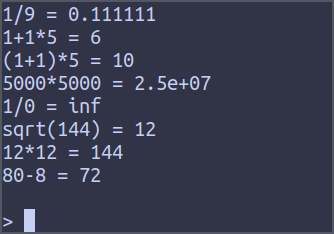
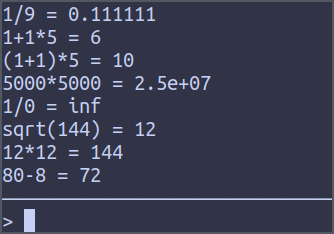
added seperator

Changed region(s): [[0.0, 0.8376, 1.0, 0.8675]]

diff --git a/src/main.c b/src/main.c
@@ -12,6 +12,7 @@ int main()
 		
 	while(1)
 	{
+		puts("――――――――――――――――――――――――――――――");
 		input = readline("> ");
 
 		if (!input || strcmp(input, "quit") == 0 || strcmp(input, "q") == 0) break;
@@ -21,7 +22,7 @@ int main()
 				"\033[2K" // Clear
 				"\033[1A" // Move up
 				"\033[2K" // Clear
-				"%s = %g\n\n", input, te_interp(input, 0));
+				"%s = %g\n", input, te_interp(input, 0));
 		free(input);
 	}
 
